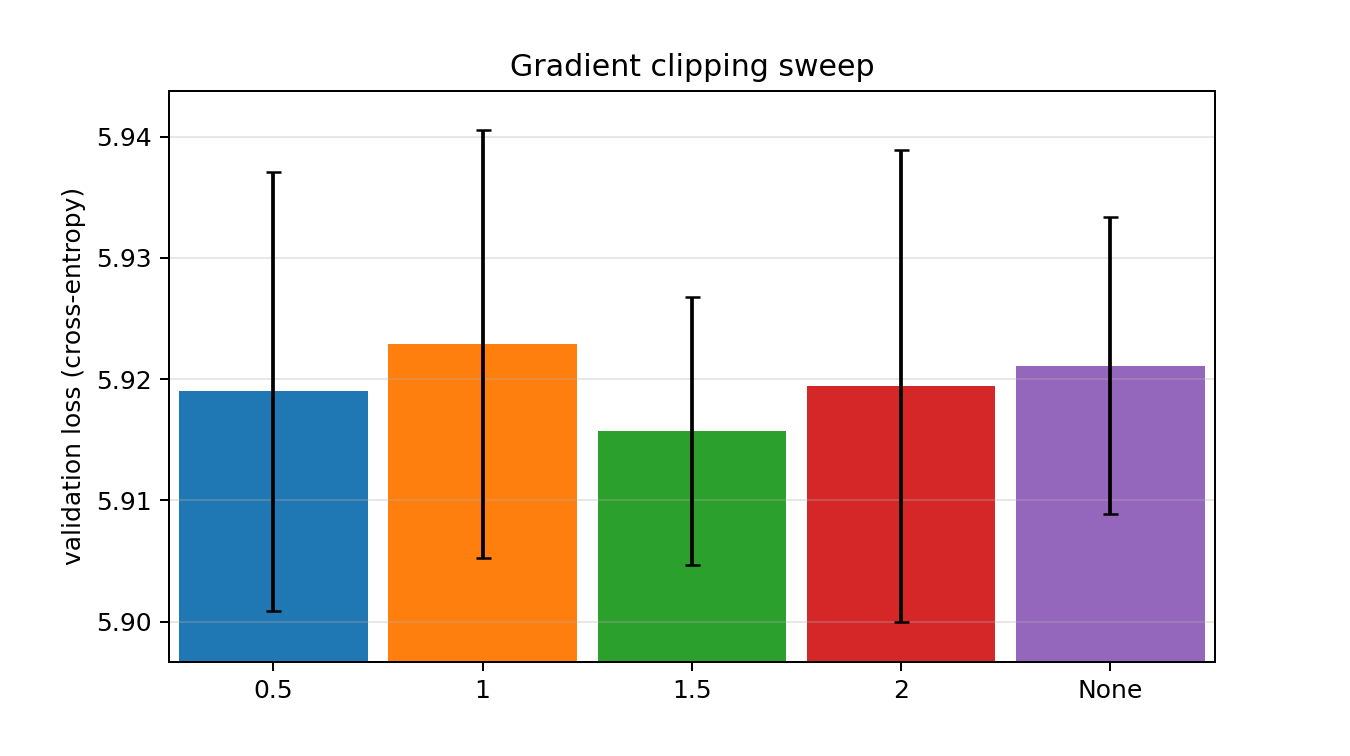
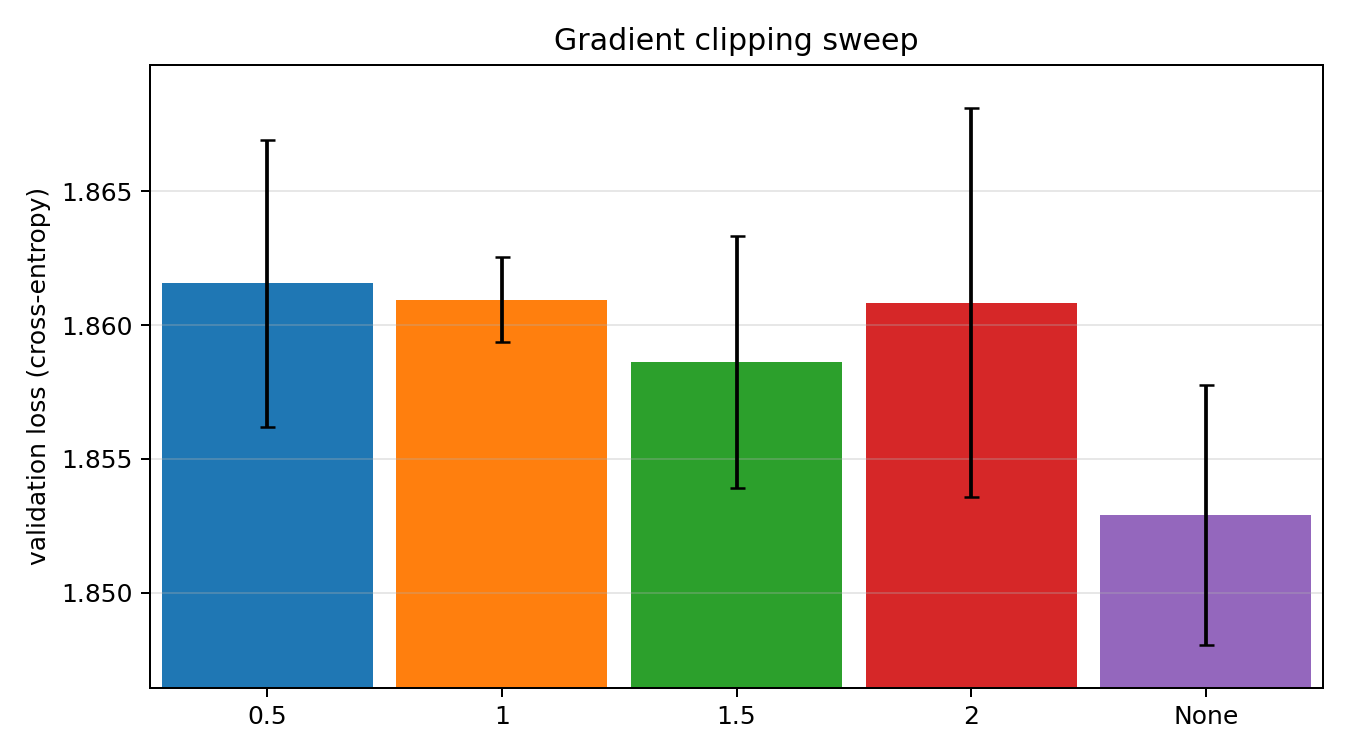
writing update

diff --git a/posts/llm-training/index.html b/posts/llm-training/index.html
@@ -1,10 +1,11 @@
 <!DOCTYPE html>
-<html>
+<html lang="en">
 <head>
 	<title>Five-minute LLMs</title>
 
 	<meta name="viewport" content="width=device-width, initial-scale=1">
 	<meta name="theme-color" content="#FBEDEA" />
+	<meta charset="utf-8">
 
 	<link rel="shortcut icon" type="image/x-icon"  href="../../favicon.ico?">
 	<link rel="apple-touch-icon" href="../../apple-touch-icon.png">
@@ -63,13 +64,13 @@
 	</div>
 
 	<section class="blog centering post">
-		<h1>Five-minute SLMs</h1>
+		<h1>Five-minute LLMs</h1>
 		<div class="subtitle monospace">By Simon Halvdansson&nbsp;|&nbsp;Sep. 2025</div>
 
 		<hr class="squiggly-line"/>
 
 		<p>
-			Over the past few years there has been many innovations in LLM design; smart pretraining recipes, substantial posttraining RL, and architectural improvements. In this post, we'll look at how some of the architectural improvements translate to very small models trained for short amounts of time. This means that we are not optimizing for low parameter count, optimal there would be something like <a href="https://developers.googleblog.com/en/introducing-gemma-3-270m/" target="_blank">Gemma 3 270M</a>. We are also not interested in distillation nor quantization. Instead, we are interested in the optimal design choices when training a model for only five minutes with consumer hardware on a smaller data set. The recent exploration <a href="https://www.seangoedecke.com/model-on-a-mbp/">What's the strongest AI model you can train on a laptop in five minutes?</a> by Sean Goedecke inspired this post and here we will aim to go deeper in terms of optimizing the architecture and doing proper A/B testing. The ultimate form for this type of investigation is <a href="https://github.com/KellerJordan/modded-nanogpt">Modded-NanoGPT</a> which is considerably more hardcore but less accessible.
+			Over the past few years there have been many innovations in LLM design: smart pretraining recipes, substantial post-training RL, and architectural improvements. In this post, we'll look at how some of the architectural improvements translate to very small models trained for short amounts of time. This means that we are not optimizing for low parameter count, the optimal choice there would be something like <a href="https://developers.googleblog.com/en/introducing-gemma-3-270m/" target="_blank">Gemma 3 270M</a>. We are also not interested in distillation nor quantization. Instead, we are interested in the optimal design choices when training a model for only five minutes with consumer hardware on a smaller dataset. The recent exploration <a href="https://www.seangoedecke.com/model-on-a-mbp/">What's the strongest AI model you can train on a laptop in five minutes?</a> by Sean Goedecke inspired this post and here we will aim to go deeper in terms of optimizing the architecture and doing proper A/B testing. The ultimate form for this type of investigation is <a href="https://github.com/KellerJordan/modded-nanogpt">Modded-NanoGPT</a> which is considerably more hardcore but less accessible.
 		</p>
 
 		<div class="figure_container_small">
@@ -110,7 +111,7 @@
 			Introduced in the 2024 <a href="https://arxiv.org/abs/2405.15682" target="_blank">The Road Less Scheduled</a> paper, the Schedule-Free optimizer from Meta promises to outperform the standard AdamW optimizer without the need for a complicated cosine scheduler. Removing the need for a scheduler or, alternatively, getting some of the benefits of a scheduler without the need to add additional hyperparameters sounds like a very nice deal. I've used this for some projects before and the results in the paper for a ResNet and an LLM are promising so I wanted to try it out here.
 		</p>
 		<p>
-			Usage is quite simple but not quite a drop-in replacement. Initialization is standard but we need to keep track of an internal <code>train/eval</code> mode just like we toggle for for model during training/inference.
+			Usage is quite simple but not quite a drop-in replacement. Initialization is standard but we need to keep track of an internal <code>train/eval</code> mode just like we toggle for model during training/inference.
 
 		</p>
 
@@ -133,11 +134,11 @@ if args["optimizer"] == "schedulefree" and optimizer is not None:
 </code></pre>
 		<h4>Gradient clipping</h4>
 		<p>
-			Gradient clipping is a popular techniques to stabilize training by clipping large gradients, avoiding particularly large gradients which may steer training off its course. In between <code>loss.backward()</code> and <code>optimizer.step()</code> we simply call <code>nn.utils.clip_grad_norm_(model.parameters(), args["grad_clip"])</code>
+			Gradient clipping is a popular technique to stabilize training by clipping large gradients, avoiding particularly large gradients which may steer training off its course. In between <code>loss.backward()</code> and <code>optimizer.step()</code> we simply call <code>nn.utils.clip_grad_norm_(model.parameters(), args["grad_clip"])</code>
 		</p>
 		<h4>SwiGLU</h4>
 		<p>
-			In the latter part of a transformer block is a feedforward-network (FFN) which originally took the form of a standard multilayer perceptron (MLP) with ReLU activation. In the years since, the Swish (also called SiLU) activation functin has grown in popularity and the FFN has been modified to incorporate Gated Linear Units (GLUs). The original paper <a href="https://arxiv.org/abs/2002.05202" target="_blank">GLU Variants Improve Transformer</a> by Noam Shazeer contains extensive tests on older architectures but modern LLMs seem to all include this modification.
+			In the latter part of a transformer block is a feedforward network (FFN) which originally took the form of a standard multilayer perceptron (MLP) with ReLU activation. In the years since, the Swish (also called SiLU) activation function has grown in popularity and the FFN has been modified to incorporate Gated Linear Units (GLUs). The original paper <a href="https://arxiv.org/abs/2002.05202" target="_blank">GLU Variants Improve Transformer</a> by Noam Shazeer contains extensive tests on older architectures but modern LLMs seem to all include this modification.
 		</p>
 <pre><code class="language-py">class SwiGLU(nn.Module):
     def __init__(self, d_model: int, hidden: int, dropout: float):
@@ -155,7 +156,7 @@ if args["optimizer"] == "schedulefree" and optimizer is not None:
 
 		<h4>Dropout</h4>
 		<p>
-			Dropout is a very old (by modern standards) regularization technique. I feel like I've read papers both positive and negative about dropout in LLMs but the prevaling notion seems to be that it is superflous, especially since we rarely train for high numbers of epochs in todays era of high parameter counts.
+			Dropout is a very old (by modern standards) regularization technique. I feel like I've read papers both positive and negative about dropout in LLMs but the prevailing notion seems to be that it is superfluous, especially since we rarely train for high numbers of epochs in today's era of high parameter counts.
 		</p>
 		<h4>RMSNorm</h4>
 		<p>
@@ -163,12 +164,12 @@ if args["optimizer"] == "schedulefree" and optimizer is not None:
 		</p>
 		<h4>Pre/post norm</h4>
 		<p>
-			Vanishing gradients has for a long time been a problem for deep networks. Apart from skip connections, the original Vaswani transformer paper also included two normalization layers inside each transformer block to stabilize training. These normalizations were placed after the attention and feedforward-networks but later work has largely placed this part <i>before</i> each sub-block.
+			Vanishing gradients have for a long time been a problem for deep networks. Apart from skip connections, the original Vaswani transformer paper also included two normalization layers inside each transformer block to stabilize training. These normalizations were placed after the attention and feedforward networks but later work has largely placed this part <i>before</i> each sub-block.
 		</p>
 
 		<h4>Sinusoidal/learnable positional embeddings</h4>
 		<p>
-			Sinudoidal positional embeddings were used in the original transformer paper but was quickly replaced by learned learned embeddings and later Rotary Positional Embeddings (RoPE). While RoPE acts directly on the <code>Q</code> and <code>K</code> matrices, sinusoidal and learned positional embeddings simply take the form of adding a vector to each token embedding making them a bit easier to implement.
+			Sinusoidal positional embeddings were used in the original transformer paper but were quickly replaced by learned embeddings and later Rotary Positional Embeddings (RoPE). While RoPE acts directly on the <code>Q</code> and <code>K</code> matrices, sinusoidal and learned positional embeddings simply take the form of adding a vector to each token embedding making them a bit easier to implement.
 		</p>
 
 		<hr class="squiggly-line"/>
@@ -176,7 +177,7 @@ if args["optimizer"] == "schedulefree" and optimizer is not None:
 		<h2>Methodology</h2>
 
 		<p>
-			We will train all models with automatic mixed precision (<a href="https://docs.pytorch.org/docs/stable/amp.html">AMP</a>) and <code>bfloat16</code> since this generally doubles throughput at the cost of some training stability which is preferable in this time-constrained setting. Searching over all possible configurations is outside my time and electricity budget so we will assume that all choices contribute to the result independently.
+			We will train all models with automatic mixed precision (<a href="https://docs.pytorch.org/docs/stable/amp.html">AMP</a>) and <code>bfloat16</code> since this generally doubles throughput at the cost of some training stability which is preferable in this time-constrained setting. Everything will be run on an RTX 3070 with a context window of <code>256</code> tokens and a batch size of <code>16</code>. Searching over all possible configurations is outside my time and electricity budget so we will assume that all choices contribute to the result independently.
 		</p>
 
 <pre><code class="language-py">args = {
@@ -216,7 +217,7 @@ if args["optimizer"] == "schedulefree" and optimizer is not None:
 		</p>
 
 		<p>
-			From here, we will tweak the architecture to beat this base validation loss of around <code>2.15</code>. Going over <b>all</b> possible configurations is simple infeasible, even on a 5 minute time budget, without significant parallell compute. Instead, we will work through the hyperparamters in a semi-heuristical way, tweaking the most important parameters first.
+			From here, we will tweak the architecture to beat this base validation loss of around <code>2.15</code>. Going over <b>all</b> possible configurations is simply infeasible, even on a 5 minute time budget, without significant parallel compute. Instead, we will work through the hyperparameters in a semi-heuristic way, tweaking the most important parameters first.
 		</p>
 
 		<hr class="squiggly-line"/>
@@ -263,7 +264,7 @@ if args["optimizer"] == "schedulefree" and optimizer is not None:
 		</div>
 
 		<p>
-			Note that we cannot say with any $p < 0.05$ confidence that the <code>n_layers=2</code>, <code>n_heads = 4</code>, <code>d_model = 256</code> is the global minimum in our search space but it is clear from the heatmaps that it at least is very close to the global minimum and so we set it in our configuration for now. Next up we compare <code>RMSNorm</code> and <code>LayerNorm</code>.
+			Note that we cannot say with any $p < 0.05$ confidence that the <code>n_layers=2</code>, <code>n_heads = 4</code>, <code>d_model = 256</code> configuration is the global minimum in our search space but it is clear from the heatmaps that it at least is very close to the global minimum and so we set it in our configuration for now. Next up we compare <code>RMSNorm</code> and <code>LayerNorm</code>.
 		</p>
 		
 		<div class="figure_container_small">
@@ -272,7 +273,7 @@ if args["optimizer"] == "schedulefree" and optimizer is not None:
 			</a>
 		</div>
 		<div class="figure_caption">
-			<span class="caption_title">Figure: </span> Comparision of validation loss for LayerNorm compared to RMSNorm. Note the scale on the y axis.
+			<span class="caption_title">Figure: </span> Comparison of validation loss for LayerNorm compared to RMSNorm. Note the scale on the y-axis.
 		</div>
 
 		<p>
@@ -285,11 +286,11 @@ if args["optimizer"] == "schedulefree" and optimizer is not None:
 			</a>
 		</div>
 		<div class="figure_caption">
-			<span class="caption_title">Figure: </span> Comparision of validation loss for a standard MLP and SwiGLU for the feedforward netwrok path of the transformer.
+			<span class="caption_title">Figure: </span> Comparison of validation loss for a standard MLP and SwiGLU for the feedforward network path of the transformer.
 		</div>
 
 		<p>
-			For the <code>MLP</code> vs <code>SwiGLU</code> comparision the result is a bit more surprising with the standard <code>MLP</code> handily beating out the more modern <code>SwiGLU</code> block. Still, a multilayer perceptron is still the default solution for a very simple neural network and SwiGLU has not taken its place across the board. Hence it is perhaps reasonable that the MLP stays strong when we're not pushing the boundaries of LLMs.
+			For the <code>MLP</code> vs <code>SwiGLU</code> comparison the result is a bit more surprising with the standard <code>MLP</code> handily beating out the more modern <code>SwiGLU</code> block. Still, a multilayer perceptron is still the default solution for a very simple neural network and SwiGLU has not taken its place across the board. Hence it is perhaps reasonable that the MLP stays strong when we're not pushing the boundaries of LLMs.
 		</p>
 		
 		<div class="figure_container_small">
@@ -298,11 +299,11 @@ if args["optimizer"] == "schedulefree" and optimizer is not None:
 			</a>
 		</div>
 		<div class="figure_caption">
-			<span class="caption_title">Figure: </span> Comparision of validation loss for pre-norm and post-norm.
+			<span class="caption_title">Figure: </span> Comparison of validation loss for pre-norm and post-norm.
 		</div>
 
 		<p>
-			The difference between pre- and postnorm is absolutely huge in this case, enough so that I reran the experiment with a 30-minute training time (and reviewed the code) to be sure there was no issue with the implementation. At the longer training time, the gap persisted as pre-norm validation loss shrank to about <code>1.7</code> while post-norm remained at the same level. A likely explanation for the large discrepency is that the learning rate was chosen too high to play well with post-norm as pre-norm improves training stability and the learning rate was chosen with pre-norm in mind. To test this out, i quickly tried at learning rate of <code>5e-4</code> which resulting in a significantly lower discrepency but still a small edge for pre-norm.  It is very possible that our decision to use mixed precision further increased the training instability problems for this high learning rate.
+			The difference between pre- and postnorm is absolutely huge in this case, enough so that I reran the experiment with a 30-minute training time (and reviewed the code) to be sure there was no issue with the implementation. At the longer training time, the gap persisted as pre-norm validation loss shrank to about <code>1.7</code> while post-norm remained at the same level. A likely explanation for the large discrepancy is that the learning rate was chosen too high to play well with post-norm as pre-norm improves training stability and the learning rate was chosen with pre-norm in mind. To test this out, I quickly tried at learning rate of <code>5e-4</code> which resulted in a significantly lower discrepancy but still a small edge for pre-norm. It is very possible that our decision to use mixed precision further increased the training instability problems for this high learning rate.
 		</p>
 
 		<div class="figure_container_small">
@@ -311,15 +312,15 @@ if args["optimizer"] == "schedulefree" and optimizer is not None:
 			</a>
 		</div>
 		<div class="figure_caption">
-			<span class="caption_title">Figure: </span> Comparision between sinusoidal and learned positional embeddings.
+			<span class="caption_title">Figure: </span> Comparison between sinusoidal and learned positional embeddings.
 		</div>
 
 		<p>
-			For the positional embeddings, learned embeddings turn out to perform better than sinusoidal ones. Perhaps because simpler embedding maps can co-evolve with the training instead of starting immediately with effectively <code>256</code> ortgononal embeddings to learn. In the early stages of training, simpler shorter relations for e.g. grammar are more important than longer dependencies which enable more coherency.
+			For the positional embeddings, learned embeddings turn out to perform better than sinusoidal ones. Perhaps because simpler embedding maps can co-evolve with the training instead of starting immediately with effectively <code>256</code> orthogonal embeddings to learn. In the early stages of training, simpler shorter relations for e.g., grammar are more important than longer dependencies which enable more coherence.
 		</p>
 
 		<p>
-			At this point, we should note that, with the exception of learned positional embeddings and a small change in the sizing, the choices in the original configuration were mostly correct. Before continuing with the dropout and gradient clipping sweeps, we take another look at learning rate and the optimizer for our updates configuration with learned positional embeddings. This also let's us choose a learning rate which is possibly better suited for the new choice of layers, heads and hidden dimension. We can also restrict our search to a tigether interval based on the earlier findings. Doing so we obtain the following results:
+			At this point, we should note that, with the exception of learned positional embeddings and a small change in the sizing, the choices in the original configuration were mostly correct. Before continuing with the dropout and gradient clipping sweeps, we take another look at learning rate and the optimizer for our updated configuration with learned positional embeddings. This also lets us choose a learning rate which is possibly better suited for the new choice of layers, heads and hidden dimension. We can also restrict our search to a tighter interval based on the earlier findings. Doing so we obtain the following results:
 		</p>
 
 		<div class="figure_container_small">
@@ -345,7 +346,7 @@ if args["optimizer"] == "schedulefree" and optimizer is not None:
 		</div>
 
 		<p>
-			We see very clearly that dropout does not help
+			We see very clearly that dropout does not help which perhaps should be expected since we're training for around <code>1.7</code> epochs.
 		</p>
 
 		<div class="figure_container_small">
@@ -354,15 +355,20 @@ if args["optimizer"] == "schedulefree" and optimizer is not None:
 			</a>
 		</div>
 		<div class="figure_caption">
-			<span class="caption_title">Figure: </span> Comparision between Gradient clipping options for use in training.
+			<span class="caption_title">Figure: </span> Comparison between gradient clipping options for use in training.
 		</div>
 
+		<p>
+			Lastly for the gradient clipping it certainly does not make a big difference and we keep it off.
+		</p>
 
-		
+		<hr class="squiggly-line"/>
 
+		<h2>Conclusions</h2>
 		
-		
-
+		<p>
+			The final model we end up with has <code>27.4M</code> parameters and trains for around <code>30M</code> tokens in the five minutes we give it to a validation loss of around <code>1.85</code> corresponding to a perplexity of <code>6.36</code>. Many of the choices in the initial model configuration turned out to be correct which perhaps should be expected as they are standard choices for a reason. Still, at least for me, this investigation has highlighted how time intensive these sort of hyperparameter searches are and how many iterations it can take to reach a statistically significant answer.
+		</p>
 
 	</section>
 	

diff --git a/posts/llm-training/llm.py b/posts/llm-training/llm.py
@@ -186,6 +186,7 @@ def test_setup(args, train_loader, val_loader, n_runs, per_run_seconds):
     for i in range(n_runs):
         print(f"\n=== Run {i+1}/{n_runs} (time budget: {per_run_seconds}s) ===")
         model = make_model().to(device)
+        
         val_loss = train_limited_time(
             model, train_loader, val_loader, per_run_seconds, args
         )
@@ -213,7 +214,7 @@ if __name__ == '__main__':
     }
     
     per_run_seconds = 300
-    n_runs = 3
+    n_runs = 26
     lr_points = 8
     histogram_runs = 100
     
